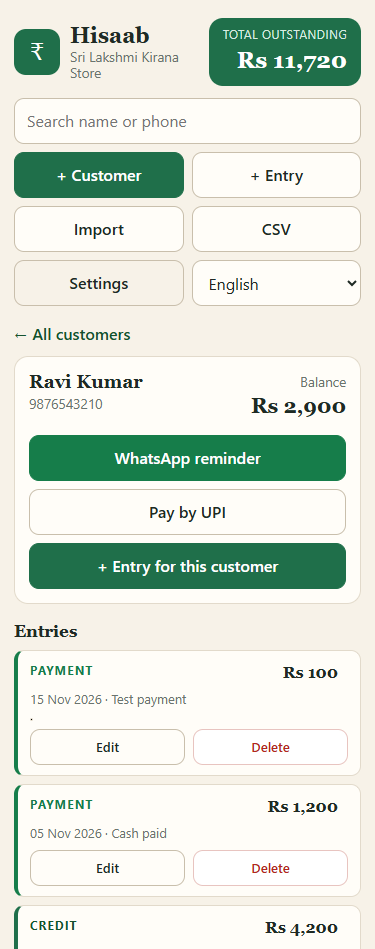
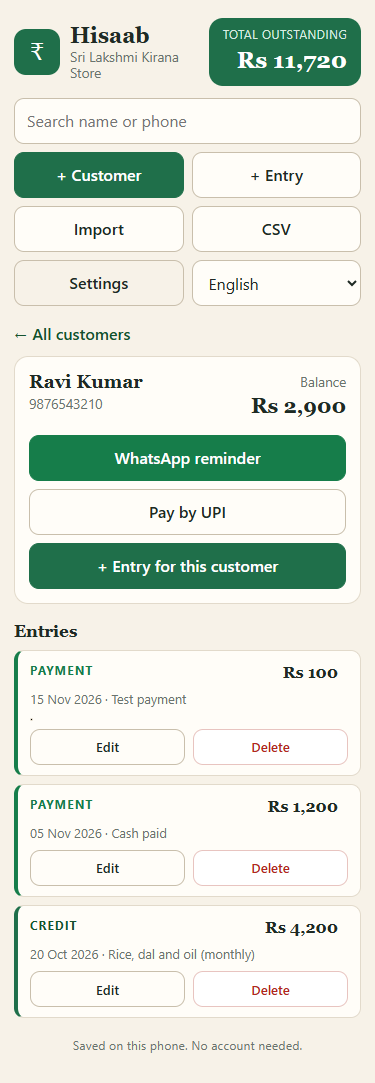
Checks: allow running the browser check against the live URL; README live link

Changed region(s): [[0.0293, 0.0, 0.968, 1.0], [0.9093, 0.6723, 0.968, 0.7334]]

diff --git a/checks/ui-check.js b/checks/ui-check.js
@@ -1,4 +1,4 @@
-/* Hisaab — real-browser check (Chrome via puppeteer-core). Node only. */
+/* Hisaab - real-browser check (Chrome via puppeteer-core). Node only. */
 var http = require("http");
 var fs = require("fs");
 var path = require("path");
@@ -6,13 +6,14 @@ var puppeteer = require("puppeteer-core");
 
 var ROOT = path.join(__dirname, "..");
 var PORT = 4180;
+var BASE = process.env.HISAAB_URL || ("http://127.0.0.1:" + PORT + "/");
 var CHROME = "C:\\Program Files\\Google\\Chrome\\Application\\chrome.exe";
 var failures = [];
 var TYPES = { ".html": "text/html; charset=utf-8", ".css": "text/css; charset=utf-8", ".js": "text/javascript; charset=utf-8", ".json": "application/json", ".png": "image/png" };
 
 function check(ok, label, detail) {
   if (ok) console.log("  ok  " + label);
-  else { failures.push(label + (detail ? " — " + detail : "")); console.log("  FAIL " + label + (detail ? " — " + detail : "")); }
+  else { failures.push(label + (detail ? " - " + detail : "")); console.log("  FAIL " + label + (detail ? " - " + detail : "")); }
 }
 
 var server = http.createServer(function (req, res) {
@@ -25,7 +26,7 @@ var server = http.createServer(function (req, res) {
 });
 
 (async function () {
-  await new Promise(function (r) { server.listen(PORT, "127.0.0.1", r); });
+  if (!process.env.HISAAB_URL) await new Promise(function (r) { server.listen(PORT, "127.0.0.1", r); });
   var browser = await puppeteer.launch({ executablePath: CHROME, headless: true, args: ["--no-sandbox", "--disable-dev-shm-usage"] });
   var page = await browser.newPage();
   var pageErrors = [];
@@ -33,14 +34,15 @@ var server = http.createServer(function (req, res) {
   page.on("pageerror", function (e) { pageErrors.push(String(e && e.message || e)); });
   await page.setViewport({ width: 375, height: 812, deviceScaleFactor: 1 });
 
-  await page.goto("http://127.0.0.1:" + PORT + "/?today=2026-11-15", { waitUntil: "networkidle0" });
+  await page.goto(BASE + "?today=2026-11-15", { waitUntil: "networkidle0" });
 
   console.log("\nHome / required selectors");
   check(await page.$eval("#total-outstanding", function (el) { return !!el; }), "#total-outstanding exists");
   check(await page.$eval("#import-box", function (el) { return el.offsetParent !== null; }), "#import-box is visible");
   check(await page.$eval("#import-go", function (el) { return !!el; }), "#import-go exists");
   check(await page.$eval("#shot-input", function (el) { return el.type === "file"; }), "#shot-input is a file input");
-  check(await page.$eval("html", function (el) { return el.scrollWidth <= 375; }), "no sideways scroll at 375px", "scrollWidth=" + await page.$eval("html", function (el) { return el.scrollWidth; }));
+  var scroll375 = await page.$eval("html", function (el) { return el.scrollWidth; });
+  check(scroll375 <= 375, "no sideways scroll at 375px", "scrollWidth=" + scroll375);
 
   console.log("\nImport the sample shop");
   var sample = fs.readFileSync(path.join(ROOT, "sample-data.json"), "utf8");
@@ -68,7 +70,7 @@ var server = http.createServer(function (req, res) {
   await page.screenshot({ path: path.join(ROOT, "shots", "home-375.png"), fullPage: true });
 
   console.log("\nCustomer page, payment screenshot, edit/delete");
-  await page.goto("http://127.0.0.1:" + PORT + "/?today=2026-11-15#/customer/9876543210", { waitUntil: "networkidle0" });
+  await page.goto(BASE + "?today=2026-11-15#/customer/9876543210", { waitUntil: "networkidle0" });
   await page.waitForSelector("#detail-view:not([hidden])");
   var before = await page.$eval("#detail-balance", function (el) { return Number(el.getAttribute("data-amount")); });
   check(before === 3000, "detail balance starts at 3000", String(before));
@@ -99,26 +101,30 @@ var server = http.createServer(function (req, res) {
   check(true, "delete recalculates balance back to 3000");
 
   console.log("\nSearch, language, wide screen");
-  await page.goto("http://127.0.0.1:" + PORT + "/?today=2026-11-15", { waitUntil: "networkidle0" });
+  await page.goto(BASE + "?today=2026-11-15", { waitUntil: "networkidle0" });
   await page.$eval("#search", function (el) { el.value = "Ravi"; el.dispatchEvent(new Event("input", { bubbles: true })); });
   await new Promise(function (r) { setTimeout(r, 150); });
   var filtered = await page.$$eval("[data-customer]", function (els) { return els.length; });
   check(filtered === 1, "search filters to one customer", "rows=" + filtered);
   await page.select("#lang", "te");
   await new Promise(function (r) { setTimeout(r, 150); });
-  var addLabel = await page.$eval("#btn-add-customer", function (el) { return el.textContent; });
-  check(/కస్టమర్/.test(addLabel), "Telugu labels apply", addLabel);
+  var langState = await page.evaluate(function () {
+    var btn = document.getElementById("btn-add-customer");
+    return { lang: document.documentElement.lang, label: btn ? btn.textContent : "" };
+  });
+  check(langState.lang === "te" && langState.label.indexOf("+ Customer") < 0 && /[^\x00-\x7F]/.test(langState.label), "Telugu labels apply", JSON.stringify(langState));
   await page.select("#lang", "en");
   await page.$eval("#search", function (el) { el.value = ""; el.dispatchEvent(new Event("input", { bubbles: true })); });
   await page.setViewport({ width: 1440, height: 900, deviceScaleFactor: 1 });
   await new Promise(function (r) { setTimeout(r, 150); });
   await page.screenshot({ path: path.join(ROOT, "shots", "home-1440.png"), fullPage: true });
-  check(await page.$eval("html", function (el) { return el.scrollWidth <= 1440; }), "no sideways scroll at 1440px");
+  var scroll1440 = await page.$eval("html", function (el) { return el.scrollWidth; });
+  check(scroll1440 <= 1440, "no sideways scroll at 1440px", "scrollWidth=" + scroll1440);
 
   check(pageErrors.length === 0, "no console/page errors", pageErrors.slice(0, 3).join(" | "));
 
   await browser.close();
-  await new Promise(function (r) { server.close(r); });
+  if (!process.env.HISAAB_URL) await new Promise(function (r) { server.close(r); });
 
   console.log("");
   if (failures.length) { console.error("FAILURES:\n - " + failures.join("\n - ")); process.exit(1); }

diff --git a/README.md b/README.md
@@ -2,6 +2,10 @@
 
 A notebook for a local shop: who owes what, a WhatsApp reminder in one tap. Plain HTML, CSS and JavaScript. No build step, no database, no AI. Data lives in the browser (`localStorage`).
 
+## Live
+
+https://dandenagadurga7-prog.github.io/hisaab/
+
 ## Run
 
 Open `index.html` in a browser, or serve the folder:
